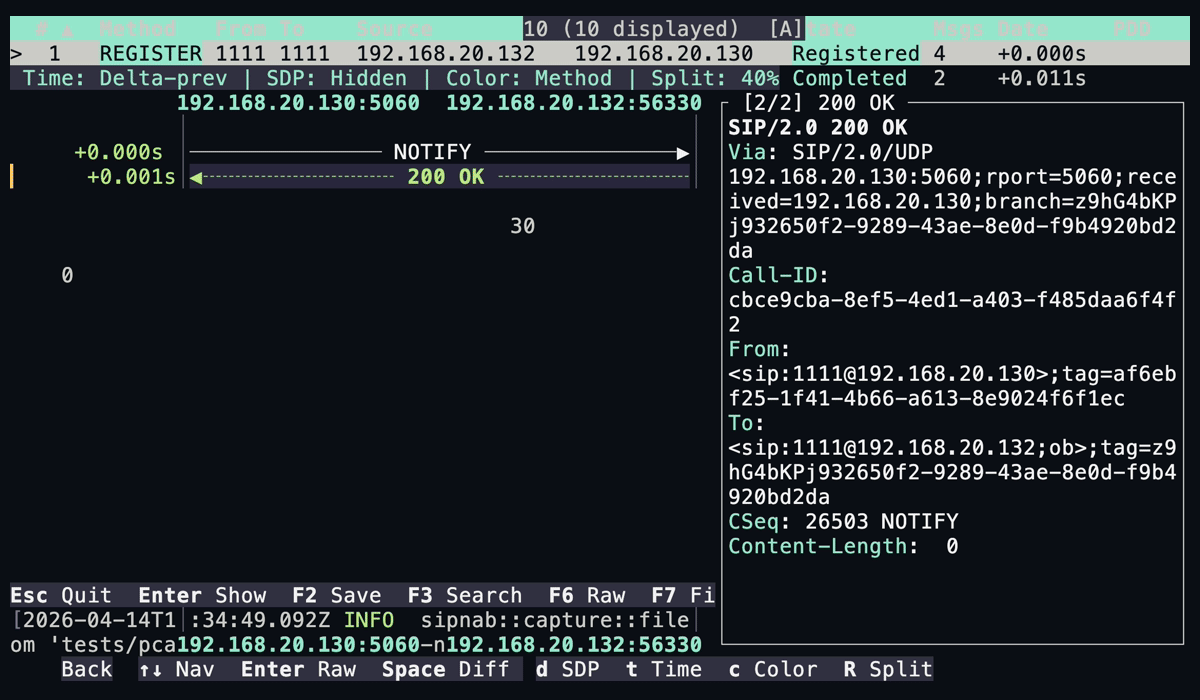
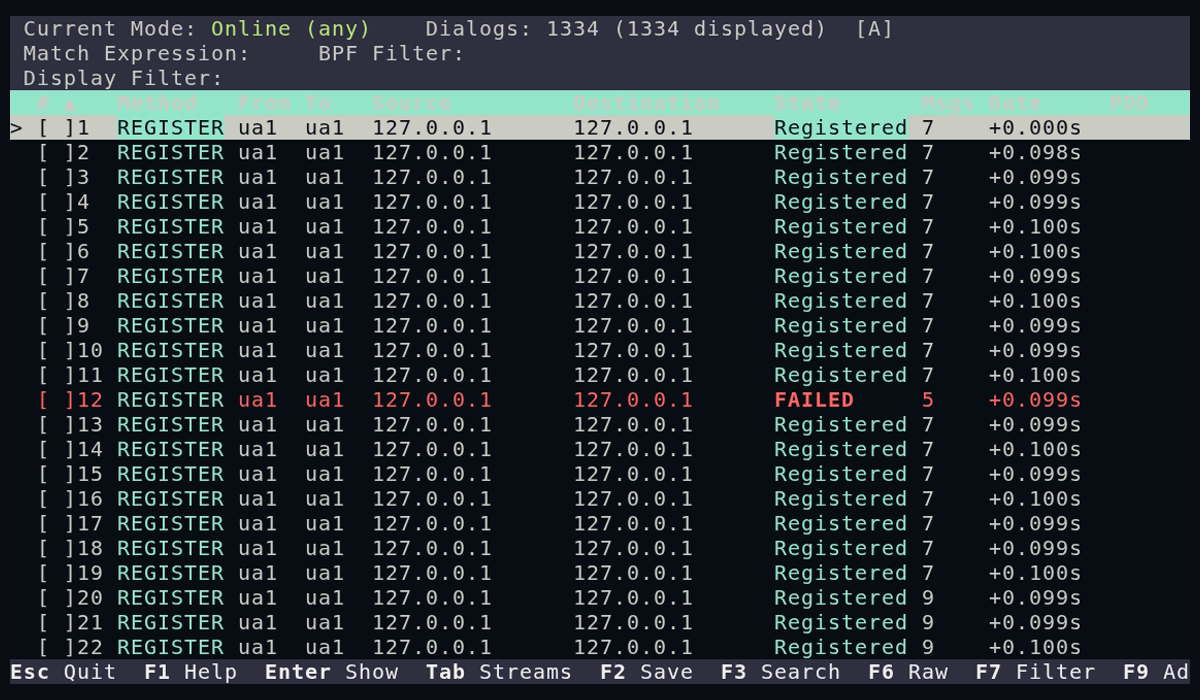
website: redo hero graphic with the current TUI landing page
The hero screenshot was an outdated capture (pre-dating the call-flow focus
indicator and current chrome). Regenerate it from the current binary via a new
VHS tape (demos/hero.tape) that launches the TUI on a multi-call capture and
screenshots its landing screen — the sortable call-list view at scale (1334
dialogs, color-coded states). Update the hero alt text and bump the cache-buster.

diff --git a/website/templates/index.html b/website/templates/index.html
@@ -21,7 +21,7 @@
 
   <!-- Hero — static screenshot of the TUI -->
   <div class="terminal-wrap">
-    <img src="{{ get_url(path='demos/hero-static.png') }}?v=3" alt="sipnab interactive TUI — call flow ladder with detail panel" class="hero-screenshot">
+    <img src="{{ get_url(path='demos/hero-static.png') }}?v=4" alt="sipnab interactive TUI — call list landing page with 1334 SIP dialogs" class="hero-screenshot">
   </div>
 </section>
 